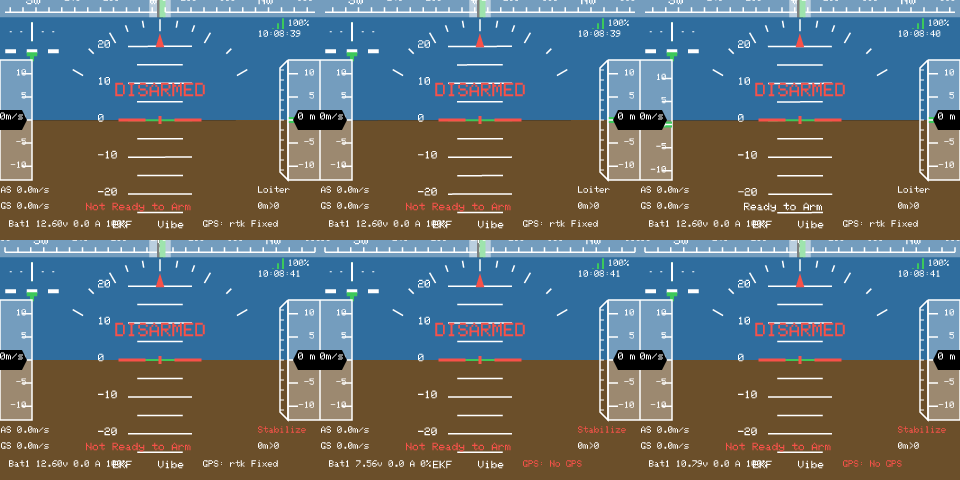
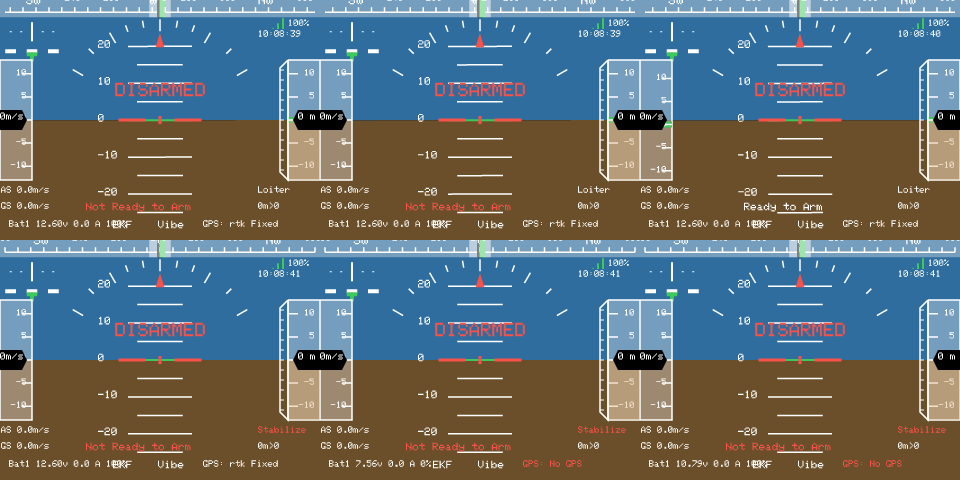
Two of upstream's fixes since efb0801, ported: the HUD's ground band starts at home on the relative tape (5dbb2b048), and GPS_RAW_INT's speed and course are taken only with a fix (694628ac8).
- The altitude tape's ground band (ExtLibs/Controls/HUD.cs:2638-2641): the C# drew it where the tape read Math.Round(groundalt) - groundalt bound to HomeAlt, home's height above sea level, on a tape of altitude above home - so it was nowhere near the ground. Upstream starts it at 0 once home is set (groundalt != 0). This port had never bound groundalt at all, so drew no band: it is HomeAlt now, as FlightData.Designer.cs:370 binds it, and the band starts at 0. The three recorded-flight goldens (testdata/hud/autotest_*.png) are drawn again: the right-hand tapes now show the band below 0, the only pixels that moved; the hard cases have no home and are unchanged.
- GPS_RAW_INT (ExtLibs/ArduPilot/CurrentState.cs:3314-3321): without a 2D fix ArduPilot sends vel 0 while VFR_HUD carries the EKF's ground speed, so GS flickered to 0 in GPS-denied flight, with the ETA, turn radius and wind estimate; speed and course are now taken only with fix_type 2D or better.
[…]

diff --git a/crates/mp-gui/src/hud.rs b/crates/mp-gui/src/hud.rs
@@ -708,7 +708,9 @@ pub struct HudInputs {
     pub altitude: f32,
     /// The controller's target altitude, metres; zero draws no mark.
     pub target_altitude: f32,
-    /// Ground level in the altitude tape's frame; zero draws no ground.
+    /// `groundalt`, bound to `HomeAlt`: home's altitude above sea level, which says only whether
+    /// home is set - the band starts at 0, home on the relative tape; zero draws no ground.
+    /// `// C#: GCSViews/FlightData.Designer.cs:370; ExtLibs/Controls/HUD.cs:2638-2641`
     pub ground_altitude: f32,
     /// Vertical speed, m/s, up positive.
     pub vertical_speed: f32,
@@ -901,7 +903,7 @@ impl HudInputs {
             target_speed: state.target_airspeed() as f32,
             altitude: state.altitude_relative.0 as f32,
             target_altitude: state.target_altitude() as f32,
-            ground_altitude: 0.0,
+            ground_altitude: state.home_altitude.0 as f32,
             vertical_speed: state.climb_rate.0 as f32,
             mode,
             mode_changed_for,
@@ -2105,7 +2107,7 @@ pub fn scene(inputs: &HudInputs, w: f32, h: f32) -> Scene {
         Side::Left,
         speed,
         inputs.target_speed * units.speed,
-        None,
+        false,
         unit_space,
         viewrange,
         fontsize,
@@ -2167,7 +2169,8 @@ pub fn scene(inputs: &HudInputs, w: f32, h: f32) -> Scene {
         Side::Right,
         altitude,
         inputs.target_altitude * units.alt,
-        (inputs.ground_altitude != 0.0).then_some(inputs.ground_altitude),
+        // `groundalt != 0`: home set.
+        inputs.ground_altitude != 0.0,
         unit_space,
         viewrange,
         fontsize,
@@ -2783,7 +2786,7 @@ fn scroller(
     side: Side,
     value: f32,
     target: f32,
-    ground: Option<f32>,
+    home_set: bool,
     space: f32,
     viewrange: f32,
     fontsize: f32,
@@ -2844,7 +2847,8 @@ fn scroller(
     }
     // The target's line where `a` is it: the speed's cut toward zero, `a == (long) _targetspeed`
     // (HUD.cs:2533), the altitude's rounded to even, `a == Math.Round(_targetalt)` (HUD.cs:2630),
-    // as is the ground's, `a == Math.Round(groundalt)` (HUD.cs:2639).
+    // The ground's is `a == 0`, home on the relative tape, since upstream's 5dbb2b048: it was
+    // `a == Math.Round(groundalt)`, home's height above sea level, where the band did not belong.
     #[allow(clippy::cast_precision_loss, clippy::float_cmp)] // the C#'s exact comparisons
     let is_at = |a: i64, level: f32| match side {
         Side::Left => a == to_long(level),
@@ -2879,10 +2883,9 @@ fn scroller(
                 colour::TARGET,
             );
         }
-        if let Some(ground_level) = ground
-            && is_at(a, ground_level)
-            && !ground_drawn
-        {
+        // `a == 0 && groundalt != 0 && ground == false`: home's level, once home is set.
+        // C#: HUD.cs:2638-2641
+        if home_set && a == 0 && !ground_drawn {
             // From ground level down to the bottom of the tape.
             scene.fill(
                 vec![
@@ -3415,6 +3418,39 @@ mod tests {
     const CENTRE: (f32, f32) = (200.0, 150.0);
     const W: f32 = 400.0;
     const H: f32 = 300.0;
+
+    /// The altitude tape's ground band, as upstream's 5dbb2b048 draws it: from 0 - home, on the
+    /// relative tape - once home is set and 0 is in view; not where the tape reads home's height
+    /// above sea level, and not before home is set. `// C#: ExtLibs/Controls/HUD.cs:2638-2641`
+    #[test]
+    fn the_ground_band_starts_at_home_on_the_relative_tape() {
+        let bands = |altitude: f32, home: f32| {
+            let inputs = HudInputs {
+                has_vehicle: true,
+                altitude,
+                ground_altitude: home,
+                ..HudInputs::default()
+            };
+            scene(&inputs, W, H)
+                .items
+                .iter()
+                .filter_map(|item| match item {
+                    Item::Fill { points, colour, .. } if *colour == colour::GROUND_TAPE => {
+                        points.first().map(|point| point.1)
+                    }
+                    _ => None,
+                })
+                .collect::<Vec<f32>>()
+        };
+        // 5 m above a home 40 m above the sea: 0 is in view, below the middle of the tape.
+        let band = bands(5.0, 40.0);
+        assert_eq!(band.len(), 1, "{band:?}");
+        assert!(band[0] > H / 2.0, "the band's top at {}", band[0]);
+        // 40 m above it, the tape reads 27 to 53: home is out of view, and 40 is not home.
+        assert!(bands(40.0, 40.0).is_empty());
+        // Home not set: no band.
+        assert!(bands(5.0, 0.0).is_empty());
+    }
 
     #[test]
     fn level_flight_puts_a_flat_horizon_through_the_centre() {

diff --git a/crates/mp-vehicle/src/state.rs b/crates/mp-vehicle/src/state.rs
@@ -672,6 +672,8 @@ const MODE_FLAG_SAFETY_ARMED: u8 = 128;
 const MODE_FLAG_CUSTOM_MODE_ENABLED: u8 = 1;
 /// `MAV_SENSOR_ROTATION_PITCH_270`: facing down. `// C#: ExtLibs/Mavlink/Mavlink.cs:4334`
 const SENSOR_ROTATION_PITCH_270: u8 = 25;
+/// `GPS_FIX_TYPE._2D_FIX`. `// C#: ExtLibs/Mavlink/Mavlink.cs:5008`
+const GPS_FIX_TYPE_2D_FIX: u8 = 2;
 
 /// `(0, 0)` is how the C# holds "no position"; anything else that is a real place is one.
 fn position_or_none(latitude: f64, longitude: f64) -> Option<LatLon> {
@@ -1089,13 +1091,17 @@ impl VehicleState {
         if m.satellites_visible != u8::MAX {
             self.gps.satellites_visible = m.satellites_visible;
         }
-        // C#: CurrentState.cs:3314-3315
-        if m.vel != u16::MAX {
+        // Without a 2D fix ArduPilot sends `vel` 0 while VFR_HUD keeps the EKF's speed, so neither
+        // speed nor course is taken from it then - the ground speed flickered to 0 in GPS-denied
+        // flight, and the ETA, turn radius and wind with it (upstream's 694628ac8).
+        // C#: CurrentState.cs:3314-3318
+        let fix = m.fix_type >= GPS_FIX_TYPE_2D_FIX;
+        if fix && m.vel != u16::MAX {
             self.ground_speed = MetresPerSecond(f64::from(f32::from(m.vel) * 1.0e-2));
         }
-        // C#: CurrentState.cs:3317-3318. The C# compares its display-unit ground speed with 0.5;
+        // C#: CurrentState.cs:3320-3321. The C# compares its display-unit ground speed with 0.5;
         // this compares metres per second, which is the same thing in the default units.
-        if self.ground_speed.0 > 0.5 && m.cog != u16::MAX {
+        if fix && self.ground_speed.0 > 0.5 && m.cog != u16::MAX {
             self.gps.course = f32::from(m.cog) * 1.0e-2;
         }
         // C#: CurrentState.cs:3325-3329

diff --git a/crates/mp-vehicle/tests/current_state.rs b/crates/mp-vehicle/tests/current_state.rs
@@ -220,6 +220,34 @@ fn the_position_comes_from_global_position_int_while_it_is_valid_and_gps_otherwi
     );
 }
 
+/// Without a 2D fix GPS_RAW_INT's speed and course are not taken: ArduPilot sends `vel` 0 then
+/// while VFR_HUD carries the EKF's speed, and the ground speed flickered to 0 between the two
+/// (upstream's 694628ac8). With a fix both are taken again.
+/// `// C#: ExtLibs/ArduPilot/CurrentState.cs:3314-3321`
+#[test]
+fn gps_raw_int_without_a_fix_leaves_the_ground_speed_alone() {
+    let mut state = VehicleState::default();
+    state.apply(&message!(VfrHud, |m| {
+        m.groundspeed = 12.0;
+    }));
+    let raw = |fix_type: u8| {
+        message!(GpsRawInt, |m| {
+            m.fix_type = fix_type;
+            m.eph = u16::MAX;
+            m.epv = u16::MAX;
+            m.vel = 0;
+            m.cog = 4500;
+            m.satellites_visible = 0;
+        })
+    };
+    for no_fix in [0, 1] {
+        state.apply(&raw(no_fix));
+        assert_eq!(state.ground_speed.0, 12.0, "fix_type {no_fix}");
+    }
+    state.apply(&raw(2));
+    assert_eq!(state.ground_speed.0, 0.0, "a 2D fix's vel is taken");
+}
+
 #[test]
 fn gps_raw_int_keeps_its_last_value_where_the_wire_says_unknown() {
     // C#: ExtLibs/ArduPilot/CurrentState.cs:3305-3329
@@ -263,6 +291,7 @@ fn gps_raw_int_keeps_its_last_value_where_the_wire_says_unknown() {
 
     // Unknown hdop, satellites and speed keep the last values; below 0.5 m/s the course holds.
     state.apply(&message!(GpsRawInt, |m| {
+        m.fix_type = 3;
         m.eph = u16::MAX;
         m.satellites_visible = u8::MAX;
         m.vel = 40;

diff --git a/NOT_DONE_YET_MATRIX.md b/NOT_DONE_YET_MATRIX.md
@@ -4,7 +4,7 @@ Only the work not yet done (the owner, 2026-10-03). A row that reaches 100 moves
 |---|---|---|---|
 | web (map tiles), crates/mp-os/src/lib.rs, web/www/thread-worker.js | **The owner's bug, 2026-10-06: OpenStreetMap's tiles refused in the browser, "403 Access blocked" (osm.wiki/Blocked).** Every tile request left the page with no Referer, which OSM's usage policy requires: the tiles are fetched on wasm_thread's workers, made from a `blob:` address, and a `blob:` referrer is stripped to none. Fixed and committed locally 2026-10-06 (ddb41f5): the threads are made from `thread-worker.js`, a file of the site's own, so their requests carry the page's origin; web/check/osm_tiles_check.js (in ci.sh) fails on a tile request without it. Left: the published site has the fix only after the next push, which waits for the owner's word; then a look at the live page's tiles. | high | 90 |
 | crates/mp-gui/src/log_index.rs (EXPERIMENTAL's logindex) | **The owner's, 2026-10-06 ("proceed, keep working").** Log/LogIndex.cs ported at efb0801: the form over the tab, every log in and under a folder read on a thread with LogMap's picture, a telemetry log replayed through the vehicle state, a dataflash log's GPS, the eleven columns, a header's sort, Delete; experimental-logindex.gui; committed locally 2026-10-06. Left: upstream's change to it (e6454ccdd: `Aircraft` a uint), with the 32-bit system IDs in the reference move's row below. | low | 90 |
-| references/missionplanner (MP_SRC), xtask/src/upstream.rs, ledger/ledger.csv, ledger/upstream-review-5dbb2b0.txt | **The owner's, 2026-10-06: move the C# reference forward from efb0801 (2026-09-17).** Moved to 5dbb2b0 (2026-10-03) the same day: the clone, `upstream::COMMIT` and the docs naming the pin; the ledger refreshed (3,684 rows; 34 worked-on rows whose file changed back to ready, "upstream-changed"; six new files, two dropped as D16 has it); the port's line citations carried through upstream's diff by tools/csharp-reference/move-citations.py (2,480 moved, each checked to name the same C# text), the 746 into changed code listed in ledger/upstream-review-5dbb2b0.txt; the dialects regenerated (353 messages) and verify-mavlink's table rebuilt from the pinned tree's MAVLink.dll (tools/csharp-reference/regen.sh builds it from MP_SRC). The move's commit (b177fbf) was checked by a compile of every target, the ledger check and verify-mavlink; the workspace's full run after it, 4,189 passed and 7 failed, each a test reading the new tree or definitions, mended the same day: the coverage report, the C# field dump (SYS_STATUS's three new fields), the dead-code notes' commit, the location commands (47), Message Interval's 353, the sensor bit 31's name, and upstream's Reboot_Mass_Storage action ported (1bb11f578: PREFLIGHT_REBOOT_SHUTDOWN with ArduPilot's action 5, asked first). The 32-bit system IDs' receive side done the same day: the parser and writer, MavlinkHeader.cs, IDs a u32 through mp-vehicle, mp-link, mp-script and the screens, multisystem.tlog's C# decode at 5dbb2b0; DevopsUI, PacketInspector, the markers, LogSort, LogMap and LogIndex tested again. The send side the same day: TARGET32 on this link's frames to a vehicle over 255, SYSID32 for a ground station's own wide ID, the live link dropping a frame whose header targets another, IsTargetedTo's rule in the mission, fence and rally answers. Left - upstream's changes to ported code, each a port, the rows and the review list their measure: the HUD's ground band at home level, GPS_RAW_INT's speed and course ignored without a fix, fast write's home altitude multiplier, [link;...] markup only opening http(s), RALLY_TOTAL/FENCE_TOTAL by TryParse, the SBS-1 altitude and vertical rate, MAVFtp's recursive folder delete, the serial read timeout thread, DFLogBuffer's index cache format, the preflight checklist's resize, the FlightData layout fixes. | high | 50 |
+| references/missionplanner (MP_SRC), xtask/src/upstream.rs, ledger/ledger.csv, ledger/upstream-review-5dbb2b0.txt | **The owner's, 2026-10-06: move the C# reference forward from efb0801 (2026-09-17).** Moved to 5dbb2b0 (2026-10-03) the same day: the clone, `upstream::COMMIT` and the docs naming the pin; the ledger refreshed (3,684 rows; 34 worked-on rows whose file changed back to ready, "upstream-changed"; six new files, two dropped as D16 has it); the port's line citations carried through upstream's diff by tools/csharp-reference/move-citations.py (2,480 moved, each checked to name the same C# text), the 746 into changed code listed in ledger/upstream-review-5dbb2b0.txt; the dialects regenerated (353 messages) and verify-mavlink's table rebuilt from the pinned tree's MAVLink.dll (tools/csharp-reference/regen.sh builds it from MP_SRC). The move's commit (b177fbf) was checked by a compile of every target, the ledger check and verify-mavlink; the workspace's full run after it, 4,189 passed and 7 failed, each a test reading the new tree or definitions, mended the same day: the coverage report, the C# field dump (SYS_STATUS's three new fields), the dead-code notes' commit, the location commands (47), Message Interval's 353, the sensor bit 31's name, and upstream's Reboot_Mass_Storage action ported (1bb11f578: PREFLIGHT_REBOOT_SHUTDOWN with ArduPilot's action 5, asked first). The 32-bit system IDs' receive side done the same day: the parser and writer, MavlinkHeader.cs, IDs a u32 through mp-vehicle, mp-link, mp-script and the screens, multisystem.tlog's C# decode at 5dbb2b0; DevopsUI, PacketInspector, the markers, LogSort, LogMap and LogIndex tested again. The HUD's ground band from home (5dbb2b048, with groundalt bound to HomeAlt as the Designer binds it) and GPS_RAW_INT's speed and course only with a fix (694628ac8) ported the same day; four needed nothing here - fast write's home altitude multiplier (57d23af17: this application's multipliers are 1), RALLY_TOTAL/FENCE_TOTAL by TryParse (228c9e3b8: the connect-time rally and fence reads it guards, MainV2.cs:1762-1836, are not ported yet - it comes with them), the [link;...] markup opening only http(s) (5e5e58250: this port's message boxes do not parse the markup; when they do, http(s) only), the SBS-1 altitude and vertical rate (61c5e2dcf: adsb.cs's SBS-1 reader is not ported yet). The send side the same day: TARGET32 on this link's frames to a vehicle over 255, SYSID32 for a ground station's own wide ID, the live link dropping a frame whose header targets another, IsTargetedTo's rule in the mission, fence and rally answers. Left - upstream's changes to ported code, each a port, the rows and the review list their measure: MAVFtp's recursive folder delete, the serial read timeout thread, DFLogBuffer's index cache format, the preflight checklist's resize, the FlightData layout fixes. | high | 50 |
 | crates/mp-mavlink, crates/mp-mavlink-dialects (wire agreement) | **The owner's, 2026-10-06, after the row above: tridge's Rust MAVLink binding (pymavlink PR #1303, https://github.com/ArduPilot/pymavlink/pull/1303) as a reference binding.** Wanted: the PR's pymavlink as an optional git submodule, its Rust binding generated and built, and a test that sends the same messages through both - ours encoding, its decoding, and the other way - for every message of the dialects both have, failing on any difference on the wire (the bytes, the CRC, signing, MAVLink 1 and 2, the 32-bit ID flags). Skipped where the submodule is not checked out. Not started: queued behind the reference move. | high | 0 |
 | crates/mp-gui (rendering) | **The owner's request, 2026-10-05: assess the GUI's rendering performance (gpui, the planner's own drawing) and find the easy speedups.** The stack can draw at 120 fps; what the planner achieves is not known, and some parts feel sluggish. Wanted: frame times measured per screen and per kind of moment (idle, connected at telemetry rate, panning the map, scrolling a list, opening a page) on the release build, on the owner's machines as well as lavapipe - frames per second, the slowest frames, and where the time goes (layout, the planner's own paint code such as the HUD and map, gpui's draw); then the easy wins taken, each with a before and after. First lead, from reading the code: the planner repaints on a 100 ms timer (REFRESH, main.rs:198) unless input arrives, so the HUD and every telemetry-driven view update 10 times a second (Mission Planner's HUD redraws every 30 ms, HUD.cs:1284); MP_BENCH repaints every 1 ms and MP_STORM at 16 ms. Measured so far: the map's paint on FLIGHT DATA's status line (0.07-2.8 ms seen in the browser build), and DELIVERABLES.md's numeric targets (packet-to-pixel p99 14.7 ms under a storm, the frame alone p99 3.8 ms; the GPU side unmeasured). Done 2026-10-05: the measure - `MP_FRAMES=1` times every screen's frames in an ordinary run (frametimes.rs: render with its laps, paint with the HUD's and the map's own time, present, gap, fps, the first frame on arriving), tests/gui/perf-screens.gui (idle) and perf-connected.gui (a SITL; the maps panned and zoomed, the parameter tree scrolled), the runner's MP_FACTS_KEEP - and the first numbers, docs/perf.md: the planner's own render is 0.2-1.2 ms and its HUD and map drawing under 1 ms; the cost is gpui's layout (taffy, 77% of the connected flight screen's draw under callgrind, a quarter of it measuring text), which follows the elements laid out - the connected flight screen 17-19 ms of paint on lavapipe, its Actions page 67; the 100 ms REFRESH is Mission Planner's own 10 Hz (FlightData.cs:5535-5538), PLAN.md §8.2 asks for 0 frames idle and a frame's packet to pixel. The easy wins, each with its before and after in docs/perf.md: (1) the flight screen's message list builds only the rows in view - the connected flight screen's paint 17.1 to 5.5 ms. Looked at, not easy wins (docs/perf.md): the Actions page (44 ms of paint, ~32 of it the C# action grid's wrapped labels, which gpui measures anew at every width taffy tries - flex rows were worse, unwrapped labels no better) and FLIGHT PLAN (9.6 ms idle, spread over its grid and sidebar); what would take them down is gpui's view caching for pages that change rarely, a refactor. Found on the way to packet to pixel (the owner's question of 2026-10-05) and fixed: the link published a message that came within its 5 ms publish interval of the last publish only when its next read returned - the next packet, or the transport's 100 ms read timeout - so a vehicle's packet arriving on its own waited ~104 ms for the screen; now the read waits only until the publish is due (crates/mp-link/tests/publish_latency.rs, ~104 ms before, under the interval after). Packet to pixel measured (docs/perf.md, 2026-10-05): MP_FRAMES's fresh, stale, latency, wait and age facts, and MP_REPAINT's policies (repaint.rs) - a faster timer redraws old data (29% of the 10 Hz timer's frames at a 4 Hz stream, the 16 ms timer's as many); repainting on new data drew no stale frame, cut a 4 Hz packet's wait for its frame from 78 to 16 ms, and drew 1 frame a second idle; the link and snapshot bus keep up at 100 and 200 Hz, the planner's share of a frame ~7-9 ms p50 and ~12-14 ms p99 (lavapipe's present, 110-170 ms, dominates every number here). On the owner's machine with a GPU (Intel UHD, 60 Hz, docs/perf.md): a whole frame 5-7 ms p50; 100 and 200 Hz streams drawn at 55-57 fps, every frame fresh, packet to pixel ~20 ms p50 / ~30 ms p99; the 10 Hz timer at a 4 Hz stream 60% stale and 164 ms p99, on new data none stale and 36 ms; MP_FRAMES's readout shows the last second's rate in the window's corner. Repainting on new data with a 1 s floor is the default since 2026-10-05 (the owner's "yes"; MP_REPAINT=tick:100 keeps the old timer): what animates without a vehicle's message asks for its own frames (repaint.rs's again_in and in_flight, the polling sites' asks). The GUI runner, which waited before every click and key for new frames, waited out the 1 s floor on the new default - each step a second where the timer took 0.6 (fly-gstreamer ran out its time); it now counts the frames drawn since its last input by the planner's `ui.frame` fact (tools/gui-test.sh's wait_publishes, 2026-10-06). The whole GUI suite on the default, 2026-10-06 (231 scripts), its failures rerun on a clean build and set against the old timer: what the default caused, fixed - the runner's frame waits (`ui.frame`, the start as its first input, waiting for keys only until settled), the probe's frame when a control is laid out anew, a frame when the keyboard moves during one, perf-screens measured on the timer; what fails on both timers is the row below. Left: view caching, the owner's choice | high | 90 |
 | web, crates/mp-os, crates/mp-transport/src/page.rs | **The owner's browser build, 2026-10-05 (merged into main 00b40d5; pushed on the owner's word the same day, and published at https://davidbuzz.github.io/MissionPlannerRust/ - DELIVERABLES.md, D20).** The whole planner in a web page through gpui_web: every screen; SIMULATION's "try local wasm" ticked by default, a click on a vehicle starting ArduPilot's WebAssembly SITL in the page and connecting (the owner's flow); links to any other address over a Tailscale tailnet - Tailscale's own Go client built for the browser (www/tailscale/, rebuilt with Go only when it changes), sign-in in the page (on the owner's own tailnet, 2026-10-05: this laptop's tailscaled serving one SITL to a page here and a page on tridge's Mac through the Sydney relay, a third client beside them - each sees the others' commands in under half a second; the SITL takes one TCP client, so several share it through a fan-out); map tiles and catalogues through the browser; the built-in plugins (the row below); the planner's facts readable in the page (?facts=1), as MP_FACTS gives them on the desktop. Chromium and Firefox. Since, each the owner's: DISCONNECT that ended the page (a wait on the main thread, mp_os::may_block); the crash question cut to fit the window; the link remembered as its URL; a fault of the page's own kept as a crash report; paste into a text box (PagePaste, the browser's paste event); every request asked over https first, plain http only when https has no answer - the satellite tiles' version check was refused as mixed content on Pages and no map drew (mp_os::https_first, check/tiles_check.js); a loading screen counting the planner's download, for slow links (check/loader_check.js); using_tailscale.md, the tailnet for first-timers. The desktop unchanged: the ports are scripts (tools/port_clock.py, port_threads.py, port_os.py, port_locks.py) whose replacements are std's own items there. Tests: check/sim_check.js, planner_check.js, tour_check.js (every screen connected, no error), check.js, tailnet_e2e.sh (Headscale, a userspace tailscaled, the SITL behind it; connect and sign-in); CI's browser build job checks the whole planner for wasm32 on every push (the pinned toolchain with RUSTC_BOOTSTRAP, as Zed's CI does). Since 2026-10-06, storage done (DELIVERABLES.md, D20): the planner's files, the SITL's parameters, the computer's files through the browser's picker and downloads, a bound on what a visit loads. Left, each a row below: WebSerial, a visit after a deploy, the page's size, the browser's odds and ends | high | 90 |
